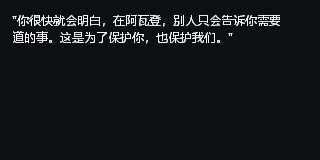
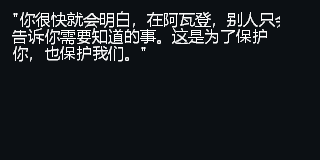
修复: 动态提示结构匹配与中文字体实际字高

Changed region(s): [[0.0312, 0.0625, 0.875, 0.4062]]

diff --git a/Repack/native/localization_core.hpp b/Repack/native/localization_core.hpp
@@ -24,10 +24,18 @@ inline std::vector<FormatPart> format_parts(const std::string& text) {
 inline std::string regex_literal(const std::string& text) {
     std::string out;for(char c:text){if(std::string(R"(\.^$|()[]{}*+?)").find(c)!=std::string::npos)out+='\\';out+=c;}return out;
 }
-struct Pattern { std::regex expression; std::vector<FormatPart> target; size_t specificity; bool require_known_argument; };
+struct Pattern { std::regex expression,prefix_expression; std::vector<FormatPart> target; size_t specificity; bool require_known_argument,composable; };
 class Dictionary {
     std::unordered_map<std::string,std::string> exact_;
     std::vector<Pattern> patterns_;
+    std::vector<std::pair<std::string,std::string>> labels_;
+    bool apply(const Pattern& pattern,const std::smatch& match,std::string& target,unsigned depth)const{
+        std::string candidate;size_t index=1;bool known_argument=false;
+        for(const auto& part:pattern.target){candidate+=part.literal;if(part.spec=="%%")candidate+='%';else if(!part.spec.empty()){
+            std::string argument=match[index++].str(),localized;
+            if(part.spec.back()=='s' && lookup(argument,localized,depth+1) && localized!=argument){candidate+=localized;known_argument=true;}else candidate+=argument;
+        }}if(pattern.require_known_argument && !known_argument)return false;target=std::move(candidate);return true;
+    }
 public:
     void add(const std::string& source,const std::string& target) {
         auto found=exact_.find(source);
@@ -35,8 +43,9 @@ public:
         exact_[source]=target;
     }
     void prepare() {
-        patterns_.clear();
+        patterns_.clear();labels_.clear();
         for(const auto& pair:exact_) {
+            if(pair.first.size()>2 && pair.first.compare(pair.first.size()-2,2,": ")==0 && pair.first.find('%')==std::string::npos)labels_.push_back(pair);
             auto source=format_parts(pair.first),target=format_parts(pair.second);size_t captures=0,literals=0,words=0;bool has_string=false,has_number=false;std::string expression="^";
             for(const auto& part:source){bool in_word=false;for(unsigned char c:part.literal){bool letter=(c>='A'&&c<='Z')||(c>='a'&&c<='z');if(letter&&!in_word)++words;in_word=letter;}expression+=regex_literal(part.literal);literals+=part.literal.size();if(part.spec=="%%"){expression+='%';++literals;}else if(!part.spec.empty()){
                 // Positional conversion is left to an explicitly supported adapter.
@@ -52,9 +61,11 @@ public:
             if(!captures || literals<2)continue;
             size_t target_captures=0;for(const auto& p:target)if(!p.spec.empty() && p.spec!="%%")++target_captures;
             if(captures!=target_captures)throw std::runtime_error("Printf argument count differs");
-            patterns_.push_back({std::regex(expression+"$",std::regex::ECMAScript|std::regex::optimize),std::move(target),literals,has_string && words<2 && !(has_number && words>0)});
+            const auto& ending=source.back().literal;bool composable=has_number && !has_string && ending.size()>=2 && ending.compare(ending.size()-2,2,". ")==0;
+            patterns_.push_back({std::regex(expression+"$",std::regex::ECMAScript|std::regex::optimize),std::regex(expression,std::regex::ECMAScript|std::regex::optimize),std::move(target),literals,has_string && words<2 && !(has_number && words>0),composable});
         }
         std::stable_sort(patterns_.begin(),patterns_.end(),[](const Pattern&a,const Pattern&b){return a.specificity>b.specificity;});
+        std::sort(labels_.begin(),labels_.end(),[](const auto&a,const auto&b){return a.first.size()>b.first.size();});
     }
     bool lookup(const std::string& source,std::string& target,unsigned depth=0) const {
         auto found=exact_.find(source);if(found!=exact_.end()){target=found->second;return true;}
@@ -71,12 +82,36 @@ public:
             }
         }
         for(const auto& pattern:patterns_){std::smatch match;if(!std::regex_match(source,match,pattern.expression))continue;
-            std::string candidate;size_t index=1;bool known_argument=false;
-            for(const auto& part:pattern.target){candidate+=part.literal;if(part.spec=="%%")candidate+='%';else if(!part.spec.empty()){
-                std::string argument=match[index++].str(),localized;
-                if(part.spec.back()=='s' && lookup(argument,localized,depth+1) && localized!=argument){candidate+=localized;known_argument=true;}else candidate+=argument;
-            }}if(pattern.require_known_argument && !known_argument)continue;target=std::move(candidate);return true;
-        }return false;
+            if(apply(pattern,match,target,depth))return true;
+        }
+        // Join only complete numeric messages with their original ". " boundary.
+        // Every byte must be consumed; never translate isolated words in prose.
+        std::string remainder=source,compound;unsigned pieces=0;
+        while(!remainder.empty() && pieces<4){bool matched=false;
+            for(const auto& pattern:patterns_){if(!pattern.composable)continue;std::smatch match;std::string part;
+                if(std::regex_search(remainder,match,pattern.prefix_expression,std::regex_constants::match_continuous) && match.length()>0 && apply(pattern,match,part,depth)){
+                    compound+=part;remainder.erase(0,match.length());++pieces;matched=true;break;
+                }
+            }if(!matched)break;
+        }
+        if(remainder.empty() && pieces>=2){target=std::move(compound);return true;}
+        static const std::regex opaque_value(R"((?:[+\-]?[0-9]+(?:[.,/][0-9]+)*%?|[A-Za-z]))");
+        for(const auto& label:labels_){if(source.compare(0,label.first.size(),label.first)!=0)continue;auto tail=source.substr(label.first.size());
+            if(std::regex_match(tail,opaque_value)){target=label.second+tail;return true;}
+        }
+        auto key_at=source.rfind(" (");
+        if(key_at!=std::string::npos && source.back()==')'){
+            auto key=source.substr(key_at+2,source.size()-key_at-3);
+            static const std::regex hotkey(R"((?:[A-Za-z0-9]|F(?:[1-9]|1[0-2])|Tab|Shift|Ctrl|Alt|Space|Esc))");
+            auto base=exact_.find(source.substr(0,key_at));
+            if(base!=exact_.end() && std::regex_match(key,hotkey)){target=base->second+source.substr(key_at);return true;}
+        }
+        // Preserve bounded UI padding while matching the whole inner message.
+        size_t leading=source.find_first_not_of(' ');
+        if(leading!=std::string::npos && leading>0 && leading<=4){std::string inner;if(lookup(source.substr(leading),inner,depth+1)){target=source.substr(0,leading)+inner;return true;}}
+        size_t last=source.find_last_not_of(' ');
+        if(last!=std::string::npos && last+1<source.size() && source.size()-last-1<=4){std::string inner;if(lookup(source.substr(0,last+1),inner,depth+1)){target=inner+source.substr(last+1);return true;}}
+        return false;
     }
     size_t size()const{return exact_.size();}
     size_t patterns()const{return patterns_.size();}

diff --git a/Repack/native/self_test.cpp b/Repack/native/self_test.cpp
@@ -75,6 +75,16 @@ int wmain(int argc,wchar_t** argv){
         avzh::Dictionary priority;priority.add("Body","Inner");priority.add("1. Body","Exact");require(priority.lookup("1. Body",value) && value=="Exact","Canonical numbered record must win");
         std::ofstream choice_report((output+L"\\dialogue_choice_report.json").c_str(),std::ios::binary);
         choice_report<<"{\"status\":\"passed\",\"reported_choices\":3,\"exact_record_priority\":true,\"unknown_and_malformed_fall_back\":true,\"game_started\":false}\n";choice_report.close();
+        std::string a,b,joined;
+        require(dictionary.lookup("Fatigue: 1. ",a) && dictionary.lookup("Turns to recover: 6. ",b),"Approved numeric messages missing");
+        require(dictionary.lookup("Fatigue: 1. Turns to recover: 6. ",joined) && joined==a+b,"Complete message composition failed");
+        require(dictionary.lookup("Weight: 4 lbs.",a) && dictionary.lookup(" Weight: 4 lbs.",b) && b==" "+a,"UI padding adaptation failed");
+        require(dictionary.lookup("Shortcut: ",a) && dictionary.lookup("Shortcut: w",b) && b==a+"w","Shortcut label binding failed");
+        require(dictionary.lookup("Health: ",a) && dictionary.lookup("Health: 64/65",b) && b==a+"64/65","Fractional label binding failed");
+        require(dictionary.lookup("Instructions",a) && dictionary.lookup("Instructions (F1)",b) && b==a+" (F1)","Hotkey label binding failed");
+        require(!dictionary.lookup("Fatigue: 1. Unapproved trailing prose.",value),"Partial numeric composition must fall back");
+        require(!dictionary.lookup("Shortcut: unapproved prose",value),"Unapproved label prose must fall back");
+        require(!dictionary.lookup("Instructions (unapproved prose)",value),"Unapproved parenthetical must fall back");
         auto lines=avzh::wrap(L"甲乙丙丁，戊己。",3,[](const std::wstring&s){return static_cast<int>(s.size());});for(const auto& line:lines)require(line.empty() || !avzh::closing(line[0]),"Closing punctuation starts wrapped line");
         std::wstring host_path=argv[0];auto slash=host_path.find_last_of(L"\\/");require(slash!=std::wstring::npos,"Need absolute component host path");
         std::wstring startup_dir=host_path.substr(0,slash)+L"\\AvadonChinese";CreateDirectoryW(startup_dir.c_str(),nullptr);
@@ -101,6 +111,8 @@ int wmain(int argc,wchar_t** argv){
         PIXELFORMATDESCRIPTOR format{};format.nSize=sizeof(format);format.nVersion=1;format.dwFlags=PFD_DRAW_TO_BITMAP|PFD_SUPPORT_OPENGL|PFD_SUPPORT_GDI;format.iPixelType=PFD_TYPE_RGBA;format.cColorBits=32;format.cDepthBits=0;format.iLayerType=PFD_MAIN_PLANE;int pixel_format=ChoosePixelFormat(dc,&format);require(pixel_format!=0 && SetPixelFormat(dc,pixel_format,&format),"Offscreen GL pixel format unavailable");HGLRC context=wglCreateContext(dc);require(context && wglMakeCurrent(dc,context),"Offscreen GL context unavailable");
         glViewport(0,0,320,160);glMatrixMode(GL_PROJECTION);glLoadIdentity();glOrtho(0,320,0,160,-100,100);glMatrixMode(GL_MODELVIEW);glLoadIdentity();glClearColor(12/255.0f,16/255.0f,20/255.0f,1);glClear(GL_COLOR_BUFFER_BIT);
         avzh::Renderer renderer;std::ifstream glyph_file(argv[2],std::ios::binary);std::string bytes((std::istreambuf_iterator<char>(glyph_file)),{});require(bytes.size()%2==0 && !bytes.empty(),"Glyph inventory unavailable");std::wstring glyphs(bytes.size()/2,L'\0');memcpy(&glyphs[0],bytes.data(),bytes.size());require(renderer.glyphs(glyphs),"Selected GDI font lacks an approved character");
+        int ink=renderer.ink_height(L'汉',13);require(ink>=10 && ink<=13,"CJK body glyph too small or too tall");
+        std::ofstream dynamic_report((output+L"\\dynamic_font_report.json").c_str(),std::ios::binary);dynamic_report<<"{\"status\":\"passed\",\"complete_message_composition\":true,\"padding_and_shortcut_labels\":true,\"partial_prose_falls_back\":true,\"cjk_body_ink_height\":"<<ink<<",\"native_line_step\":13,\"game_started\":false}\n";dynamic_report.close();
         auto* memory=static_cast<unsigned char*>(VirtualAlloc(nullptr,0x300000,MEM_RESERVE|MEM_COMMIT,PAGE_EXECUTE_READWRITE));require(memory!=nullptr,"Fixture allocation failed");
         unsigned char text_code[]={0x55,0x8b,0xec,0x81,0xec,0x40,0x08,0,0,0xb8,42,0,0,0,0x8b,0xe5,0x5d,0xc3};unsigned char measure_code[]={0x55,0x8b,0xec,0x81,0xec,0x14,0x04,0,0,0xb8,42,0,0,0,0x8b,0xe5,0x5d,0xc3};memcpy(memory+0x6e080,text_code,sizeof(text_code));memcpy(memory+0x6df00,measure_code,sizeof(measure_code));
         unsigned char name_code[]={0xc7,0x01,'T','e','s','t',0xc7,0x41,0x04,'H','e','r','o',0xc6,0x41,0x08,0,0xc3};memcpy(memory+0x6ede0,name_code,sizeof(name_code));

diff --git a/Repack/native/renderer.hpp b/Repack/native/renderer.hpp
@@ -24,7 +24,9 @@ class Renderer {
         if(!dc_)dc_=CreateCompatibleDC(nullptr);
         if(!dc_)throw std::runtime_error("Cannot create font DC");
         auto it=fonts_.find(height);if(it==fonts_.end()){
-            HFONT font=CreateFontW(height,0,0,0,FW_NORMAL,FALSE,FALSE,FALSE,DEFAULT_CHARSET,OUT_TT_PRECIS,CLIP_DEFAULT_PRECIS,ANTIALIASED_QUALITY,DEFAULT_PITCH,L"Microsoft YaHei");
+            // Use character height rather than a positive GDI cell request:
+            // measured positive 13 yielded a 7-pixel CJK ink box on this font.
+            HFONT font=CreateFontW(-std::max(1,height-1),0,0,0,FW_NORMAL,FALSE,FALSE,FALSE,DEFAULT_CHARSET,OUT_TT_PRECIS,CLIP_DEFAULT_PRECIS,ANTIALIASED_QUALITY,DEFAULT_PITCH,L"Microsoft YaHei");
             if(!font)throw std::runtime_error("Cannot create CJK font");it=fonts_.emplace(height,font).first;
         }
         SelectObject(dc_,it->second);return height;
@@ -41,7 +43,8 @@ class Renderer {
         BITMAPINFO info{};info.bmiHeader.biSize=sizeof(BITMAPINFOHEADER);info.bmiHeader.biWidth=item.texture_width;info.bmiHeader.biHeight=-item.texture_height;info.bmiHeader.biPlanes=1;info.bmiHeader.biBitCount=32;info.bmiHeader.biCompression=BI_RGB;
         void* bits=nullptr;HBITMAP dib=CreateDIBSection(dc_,&info,DIB_RGB_COLORS,&bits,nullptr,0);if(!dib || !bits)throw std::runtime_error("Cannot rasterize CJK text");
         HGDIOBJ old=SelectObject(dc_,dib);size_t bytes=static_cast<size_t>(item.texture_width)*item.texture_height*4;memset(bits,0,bytes);SetTextColor(dc_,RGB(255,255,255));SetBkMode(dc_,TRANSPARENT);
-        BOOL rendered=TextOutW(dc_,1,1,text.data(),static_cast<int>(text.size()));GdiFlush();
+        TEXTMETRICW metrics{};if(!GetTextMetricsW(dc_,&metrics))throw std::runtime_error("Cannot read font metrics");
+        BOOL rendered=TextOutW(dc_,1,2-metrics.tmInternalLeading,text.data(),static_cast<int>(text.size()));GdiFlush();
         std::vector<unsigned char> rgba(bytes);const auto* input=static_cast<const unsigned char*>(bits);
         for(size_t i=0;i<bytes;i+=4){rgba[i]=rgba[i+1]=rgba[i+2]=255;rgba[i+3]=std::max(input[i],std::max(input[i+1],input[i+2]));}
         SelectObject(dc_,old);DeleteObject(dib);if(!rendered)throw std::runtime_error("Cannot draw CJK glyphs");
@@ -50,6 +53,7 @@ class Renderer {
         return textures_.emplace(key,item).first->second;
     }
 public:
+    int ink_height(wchar_t character,int height){select(height);MAT2 matrix={{0,1},{0,0},{0,0},{0,1}};GLYPHMETRICS metrics{};if(GetGlyphOutlineW(dc_,character,GGO_METRICS,&metrics,0,nullptr,&matrix)==GDI_ERROR)throw std::runtime_error("Cannot measure glyph ink");return static_cast<int>(metrics.gmBlackBoxY);}
     int measure(const std::wstring& text,int height){select(height);SIZE size{};if(!GetTextExtentPoint32W(dc_,text.data(),static_cast<int>(text.size()),&size))throw std::runtime_error("Cannot measure text");return size.cx;}
     std::wstring face(){select(13);wchar_t name[128]{};GetTextFaceW(dc_,128,name);return name;}
     bool glyphs(const std::wstring& text){select(13);std::vector<WORD> glyph(text.size());if(GetGlyphIndicesW(dc_,text.data(),static_cast<int>(text.size()),glyph.data(),GGI_MARK_NONEXISTING_GLYPHS)==GDI_ERROR)return false;return std::find(glyph.begin(),glyph.end(),0xffff)==glyph.end();}

diff --git a/Repack/verify_patch.py b/Repack/verify_patch.py
@@ -107,12 +107,15 @@ def verify():
     require(bootstrap['status'] == 'passed' and bootstrap['startup_without_timeGetTime'] is True, 'Independent startup test failed')
     choices = load(tests/'dialogue_choice_report.json')
     require(choices['status'] == 'passed' and choices['reported_choices'] == 3 and choices['exact_record_priority'] and choices['unknown_and_malformed_fall_back'], 'Numbered dialogue regression failed')
+    dynamic_font = load(tests/'dynamic_font_report.json')
+    require(dynamic_font['status'] == 'passed' and 10 <= dynamic_font['cjk_body_ink_height'] <= 13, 'Dynamic text or CJK size regression failed')
     result = load(tests/'report.json')
     require(result['status'] == 'passed' and result['game_started'] is False and result['in_game_verified'] is False, 'Invalid component report')
     result['bindings'] = {str(path.relative_to(P)).replace('\\','/'): bp.sha(path) for path in [executable, bp.PAYLOAD/'winmm.dll', bp.PAYLOAD/'AvadonChinese/translations.bin', bp.BUILD/'required_glyphs.bin']}
     result['native_sources'] = manifest['native_sources']
     result['startup_without_timeGetTime'] = True
     result['numbered_dialogue_choices'] = choices
+    result['dynamic_text_and_font'] = dynamic_font
     bp.write_json(tests/'report.json', result)
     Image.open(tests/'cjk_render.ppm').save(tests/'cjk_render.png')
     inventory = {path.relative_to(bp.PAYLOAD).as_posix(): bp.sha(path) for path in sorted(bp.PAYLOAD.rglob('*')) if path.is_file()}

diff --git a/README.md b/README.md
@@ -94,7 +94,7 @@
[1 lines of base64/hex data omitted]
 - 显示路径：REA + Ghidra 证明 `0x46e080` 在原生换行、单字节清洗前接收完整原文，ECX 为对齐、栈上 7 个参数；`0x46df00` 为 EDX 输入的宽度查询。使用 MinHook 的线程协调与 trampoline，同时替换绘制和测宽。全部 15,928 条原文小于原生 512 字节输入限制。
 - 词典：正式译文编译为 `AvadonChinese/translations.bin`，21,808 个键；原文精确匹配优先，另有已证明的引号解码、标题标记和旧显示清洗变体。87 个格式模板仅匹配已支持的参数类型；未知文本回退原渲染，并最多记录 1,000 条唯一原文供后续补漏。所有正式 CSV 保持不变。
-- 字体与排版：系统 Microsoft YaHei，GDI 灰阶字形生成 OpenGL 纹理；支持中文换行、原生颜色/透明度、裁剪、`|` 换行和 `[N]` 姓名展开。采用完整段落布局，未使用逐词替换；不改脚本、DAT 固定槽或游戏内部标识。
+- 字体与排版：系统 Microsoft YaHei，GDI 灰阶字形生成 OpenGL 纹理；使用负字符高度申请字体、消除内部顶部留白，保留原生行距。支持中文换行、原生颜色/透明度、裁剪、`|` 换行和 `[N]` 姓名展开。采用完整段落布局，未使用逐词替换；不改脚本、DAT 固定槽或游戏内部标识。
 - 图片适配：`0x471290` 按 BMP → PNG → JPG 探测。原 JPG 的中文候选以同名 PNG 优先加载，保留原 JPG；G169 仍为真实 BMP。引擎纯白色键会清除 RGB 255,255,255，最终中文字使用 245,240,220，透明资产保留 alpha。
 - 离线验证：`Repack/verify_patch.py` 核验正式源文/译文、词典全部标准键、贴图及载荷，并运行自建 `self_test.exe`。检查 193 个导出、3,126 个字符、x86 栈/寄存器、未知原文回退、GL 状态恢复、中文换行/裁剪及姓名占位符。测试只运行自建组件与合成函数，不启动 Avadon、不执行游戏测试。证据见 `Repack/STATIC_VALIDATION.json` 和 `NativeTests/report.json`。
 - 安装核验：原 EXE、279 个脚本、DAT 共 281 个提取源文件哈希全部不变；G290 原字形图集不变；全部备份与安装文件哈希一致。原始 JPG 也全部保留。
@@ -109,6 +109,7 @@
 - 状态：图片工具清单仍为 `ready_for_engine_adapter`、`installed=false`，表示其自身阶段边界；后续引擎适配已实际完成并安装，权威安装记录在 `Repack/INSTALLATION.json`。用户游戏实测待进行。
 
 ## 已知问题
+- 用户进一步反馈动态疲劳/恢复回合、带空格的重量、快捷键标签仍英文，以及说明书字体偏小。已补充仅由完整数字消息组成的拼接、最多四个 UI 空格包装、结构明确的数值/按键值标签及括号快捷键匹配；所有片段必须完整消费，未知散文仍回退，不做逐词拼贴。实测原正高度 13 的字体申请得到 11 像素字格、3 像素内部留白、汉字墨迹仅 7 像素；改用字符高度后汉字墨迹为 11 像素，原 13 像素行距不变。组件回归及离线前后预览通过，已安装，游戏内长提示的换行/裁剪和阅读效果待用户复测。证据见 `Repack/UserFeedback/20261026-dynamic-font/report.json`、`NativeTests/dynamic_font_report.json` 及前后预览 PNG。
 - 用户后续截图确认 NPC 标题及叙述正文已有中文，三个对白选项仍为英文。运行日志已显示 enabled；unmatched 实际输入为 `1. (Watch them quietly.)` 等，正式译文键不含界面添加的编号。已增加一至两位正整数加 `. ` 的对白编号包装适配，仅当内部原句精确存在于正式词典时替换，编号原样保留；完整原句键优先，未知或异常格式仍回退原文。截图中三条真实选项、完整键优先及未知/错误编号的组件回归通过；已重新安装，选项显示待用户复测。证据见 `Repack/UserFeedback/20261026-dialogue/report.json`。
 - 用户首轮实测截图显示：中文贴图生效，但设置、说明书及开场提示仍为英文，正文验收失败。发现旧初始化仅绑定 timeGetTime，而 REA 证明计时函数在高精度模式直接调用 QueryPerformanceCounter，绕过该初始化入口；实际游戏目录亦没有插件运行日志。已改为独立工作线程初始化，并用“不调用 timeGetTime”的新组件测试证明加载后会自行启动。修正版已安装，等待用户复测，不能据此宣布实机通过。
 - 图片原文为确认子集：10 张局部残字、遮挡、字形或特殊药瓶标签未决；细项与来源见 ImageText/report.json，不能标成全图无漏字。
@@ -128,3 +129,4 @@
 - 2026-10-26：完成 REA 渲染路径分析、x86 离线显示适配、build-v4 图片和组件静态检查；备份并安装 22 个文件，交用户实测，发布前停止。
 - 2026-10-26：根据用户三张截图修复正文插件未触发初始化的问题；新增独立启动回归，重新安装并更新载荷哈希。截图反馈与既有正式译文匹配证据保存在 `Repack/UserFeedback/20261026/`，尚待用户复测。
 - 2026-10-26：用户复测确认正文出现中文；修复界面为对白选项添加编号后无法命中词典的问题，新增三条真实选项回归并重新安装。未重译、未发起付费 API 请求，选项仍待用户复测。
+- 2026-10-26：修复完整动态消息拼接、UI 空格及快捷键后缀；纠正字体高度定义导致的小字问题，测得小号汉字墨迹由 7 增至 11 像素。组件测试、字形覆盖、裁剪及安装核验通过，已重新安装，用户实测待反馈。

diff --git a/Repack/测试清单.md b/Repack/测试清单.md
@@ -6,6 +6,8 @@
 
 同日第二次修复：用户已确认对白叙述出现中文；界面添加 `1. ` 等编号使选项未匹配正式译文。已修复编号包装匹配并重新安装。请重开游戏后复查尼科迪默斯的三个选项及后续选项，检查数字快捷键、点击和分支仍正常；当前选项实机结果待用户反馈。
 
+同日第三次修复：动态疲劳/恢复提示、重量和快捷键标签已增加结构匹配；纠正字体高度定义，使小号汉字实测字高由 7 增至 11 像素，保留原行距。请复查技能提示、武器提示及说明书；尤其观察放大后的长句换行、底部裁剪与快捷键是否正确。当前结果仅通过组件测试，游戏内效果待你确认。
+
 正文 15,928 条与图片确认子集 98 条已完成正式翻译和独立审校。安装文件 22 个，原件已备份。当前是待测版本，尚无发布 ZIP。
 
 ## 建议测试顺序
